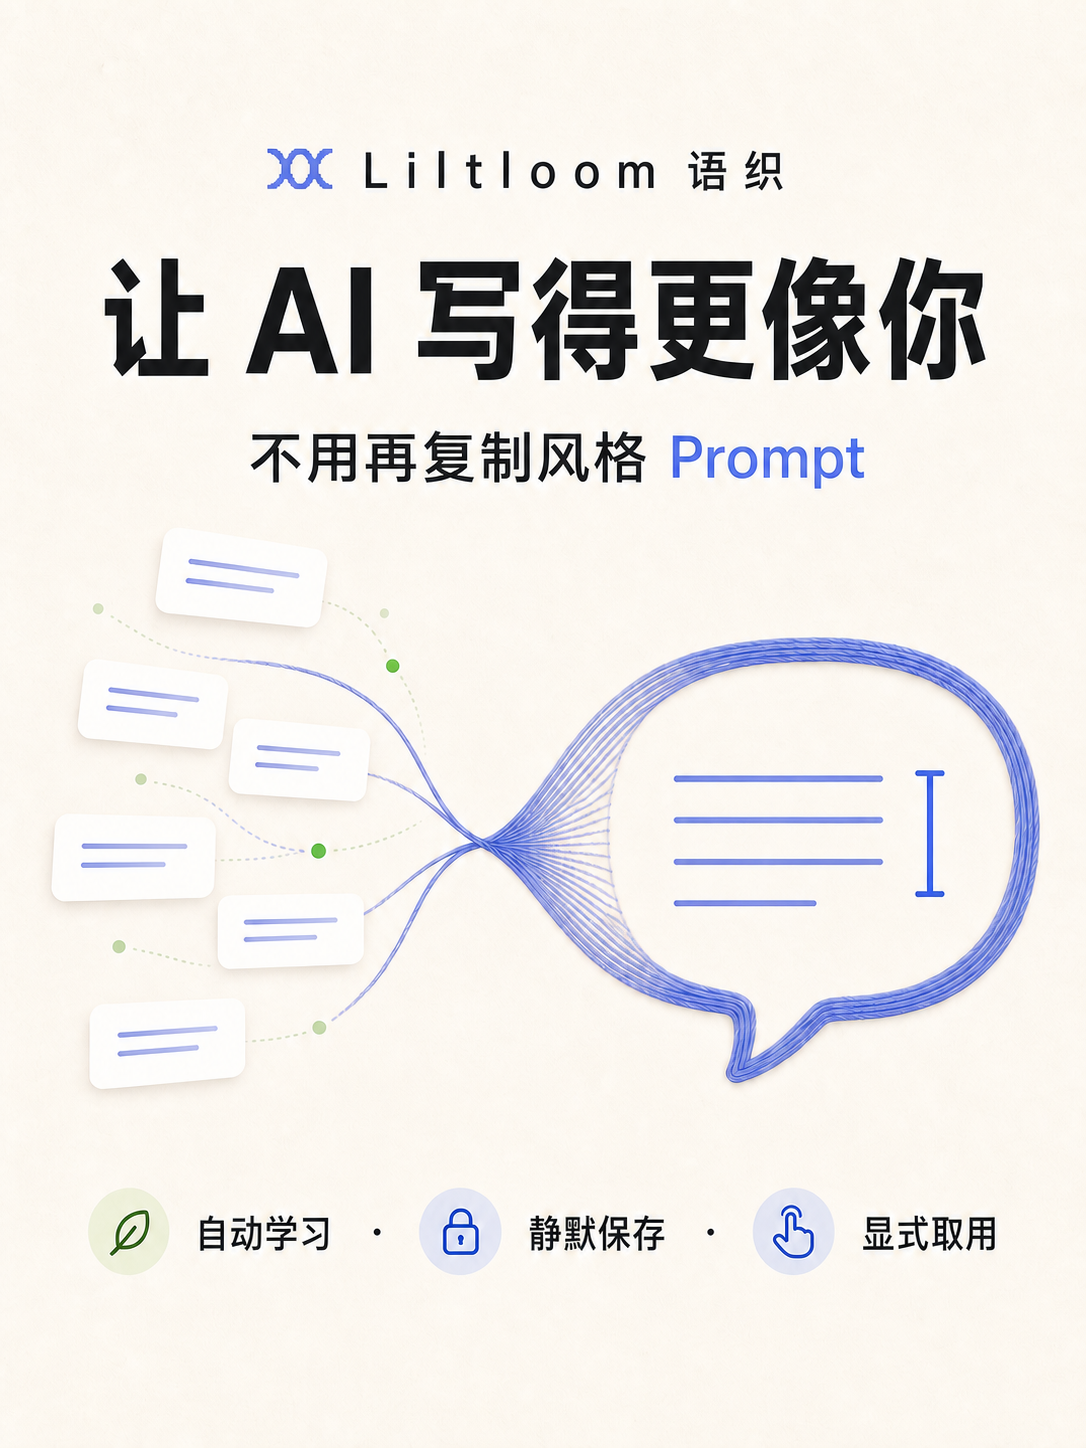
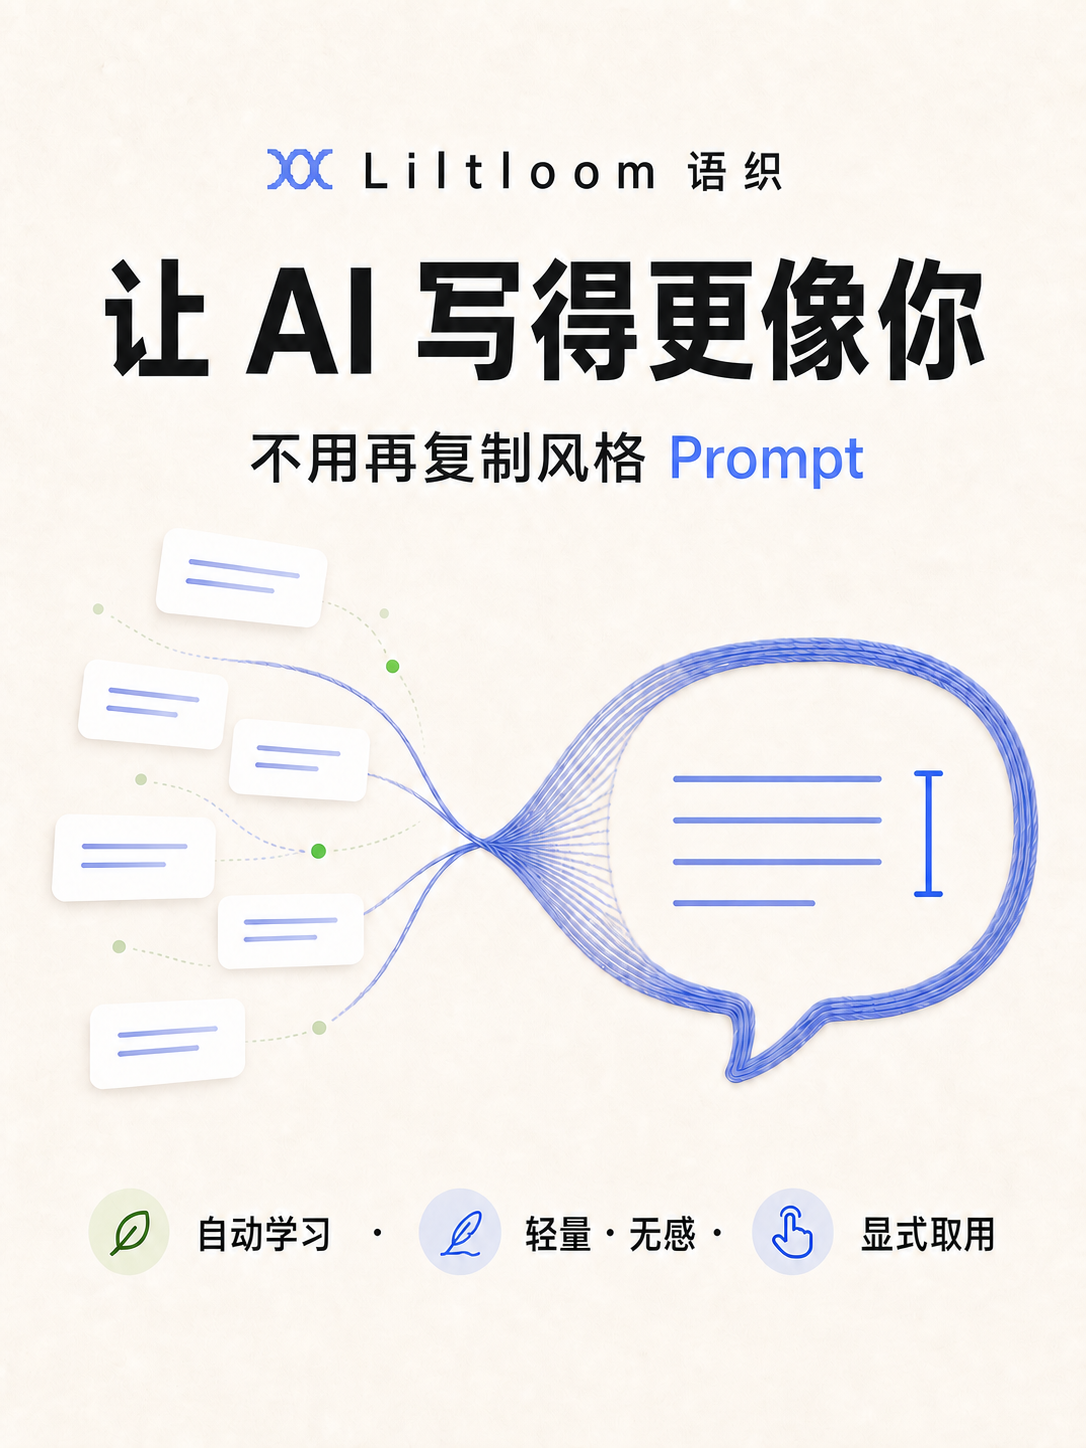
Highlight lightweight frictionless use on cover

diff --git a/assets/media/README.md b/assets/media/README.md
@@ -15,4 +15,4 @@
 
 ## 封面生成说明
 
-封面使用 OpenAI 内置图像生成能力制作。核心提示要求是：竖版 3:4、温暖米白背景、炭黑与靛蓝主色，两条织线把零散短句汇聚成对话气泡；准确呈现“Liltloom 语织”“让 AI 写得更像你”“不用再复制风格 Prompt”“自动学习 · 静默保存 · 显式取用”，避免机器人、赛博朋克、密集 UI 和第三方标志。最终版本在品牌名左侧加入了与产品界面一致的双线织结 Logo，其余构图保持不变。
+封面使用 OpenAI 内置图像生成能力制作。核心提示要求是：竖版 3:4、温暖米白背景、炭黑与靛蓝主色，两条织线把零散短句汇聚成对话气泡；准确呈现“Liltloom 语织”“让 AI 写得更像你”“不用再复制风格 Prompt”“自动学习 · 轻量 · 无感 · 显式取用”，避免机器人、赛博朋克、密集 UI 和第三方标志。最终版本在品牌名左侧加入了与产品界面一致的双线织结 Logo，并用轻羽图标表达“轻量 · 无感”，其余构图保持不变。

diff --git a/docs/xiaohongshu-launch.md b/docs/xiaohongshu-launch.md
@@ -16,7 +16,7 @@
 
 几个我比较在意的设计：
 
-1. 自动学习，但默认不保存完整对话原文。基础模式只累计统计特征和结构化规则。
+1. 自动学习，但基础模式很轻：默认不保存完整对话原文、不额外调用模型，也不改变普通请求，用起来尽量无感。
 2. 学到的东西不是黑盒。每条规则都可以查看、修改、锁定、忽略或删除；也能导出为可读 JSON，自己编辑和迁移。
 3. 默认不会偷偷改变每一次回答。只有你主动取用，或通过明确授权的接口调用时，风格信息才会进入当前写作任务。
 4. 使用前可以预览。你能看到这次到底会交给 AI 哪些规则、预计占多少 token。
